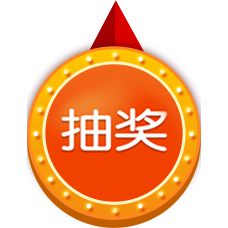
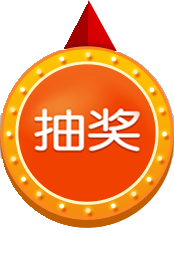
modified:   assets/css/image/pointer.png

diff --git a/assets/css/turntable.css b/assets/css/turntable.css
@@ -25,10 +25,10 @@
 }
 
 .ga-pointer{
-  max-width: 228px;
+  max-width: 174px;
   background-size: 100% 100%;
-  width: 50.67%;
-  height: 50.67%;
+  width: 38.67%;
+  height: 59.56%;
   margin: auto;
   -moz-transform: none;
   -webkit-transform: none;

diff --git a/TurntableWidget.php b/TurntableWidget.php
@@ -11,7 +11,7 @@ class TurntableWidget extends Widget{
     const TURNTABLE_SCROLL = 'TURNTABLE_SCROLL';
     public $deg = 6000;
     public $scrollType = self::POINTER_SCROLL;
-    public $animateTime = 5000;//microseconds not seconds;
+    public $animationTime = 5000;//microseconds not seconds;
     public $pointerCallback = null ;//important JS callback code here.If the pointer complete animation will trigger this function.
     public $turntableCallback = null;//important JS callback code here.If the turntable complete animation will trigger this function.
 
